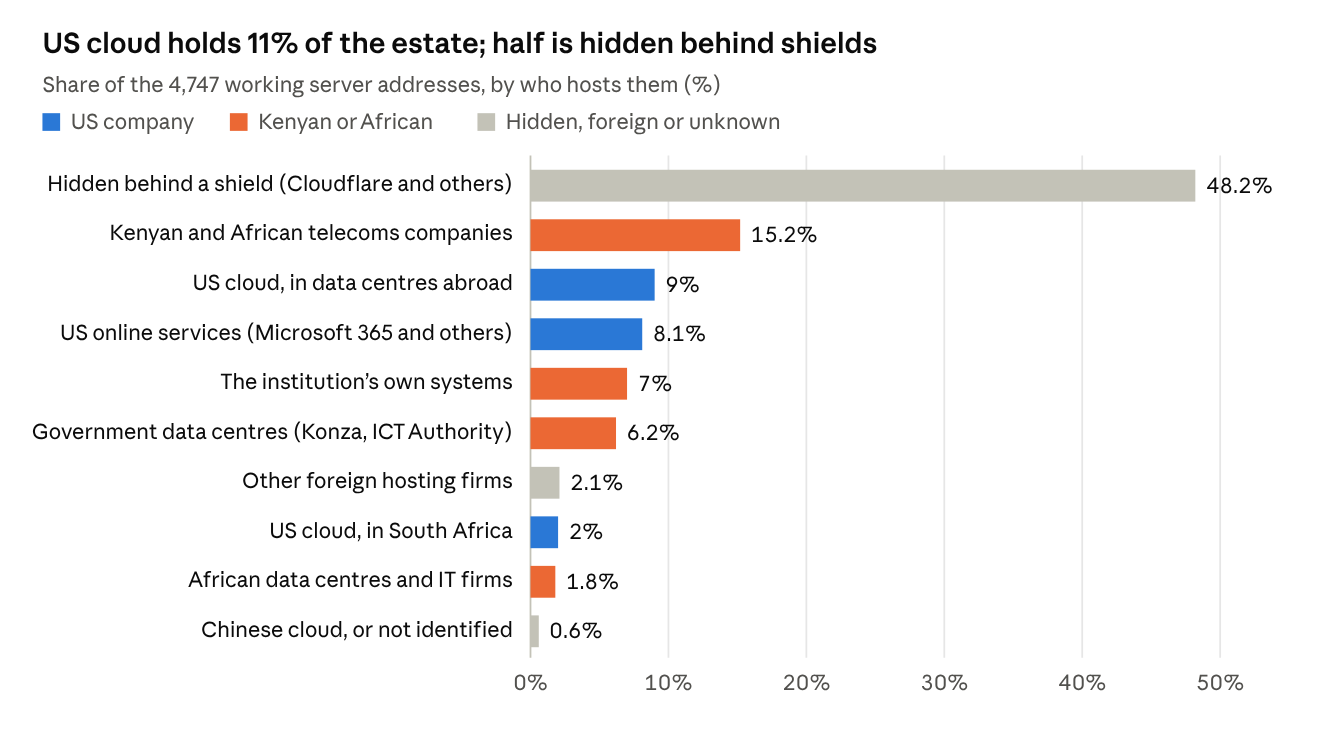
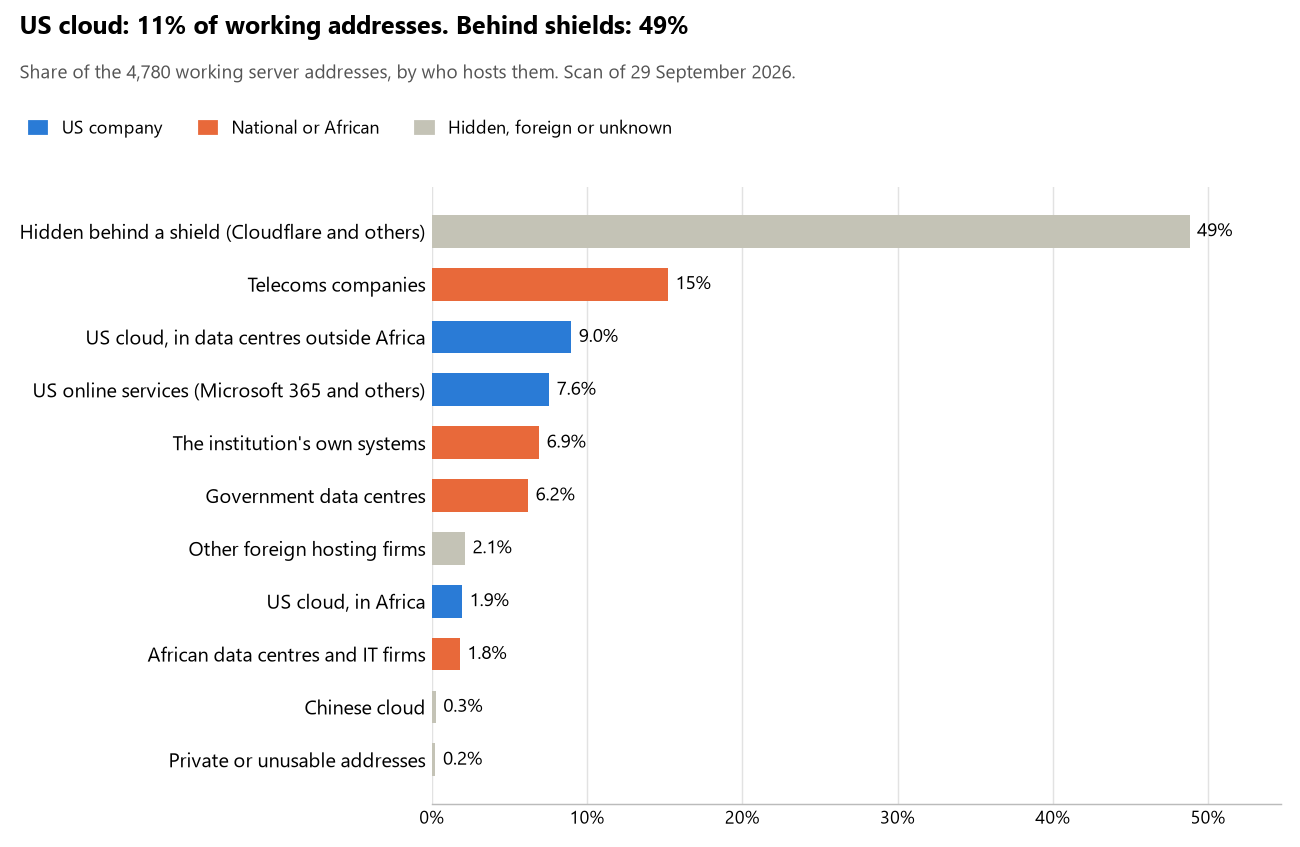
HYPERSCALER 04 KEN: institutions 51 · US 11% · shield 49% · rank 31/54 · dangling 1

diff --git a/R&D/Hyperscaler-dependence/scan/KEN/report.md b/R&D/Hyperscaler-dependence/scan/KEN/report.md
@@ -1,129 +1,135 @@
 ---
 title: Kenya — who hosts the state's front door
-date: 2026-09-28
+date: 2026-09-29
 author: Bill Anderson
 source: R&D/Hyperscaler-dependence/scan/KEN/ (nodes.csv, organisations.csv, run.json)
-doc: https://claude.ai/code/artifact/06b0b8c6-1ebf-4a3c-9620-ace419b400c2
+scan_date: 2026-09-29
 ---
 
 # Kenya: who hosts the state's front door
 
-28 September 2026 · Bill Anderson
+29 September 2026 · Bill Anderson · scan of 29 September 2026
 
-About one tenth (11%) of the public-facing systems of 50 Kenyan state bodies, banks and utilities run on Amazon, Microsoft, Google or Oracle. That is well under South Africa's 28%. Almost half (48%) sit behind Cloudflare and similar shields, so we can't see who hosts them. About one eighth (13%) run on the government's own data centres or the institutions' own systems.
+The scan covered 51 state bodies, banks and state-owned companies in Kenya. 11% of their working server addresses are on US cloud: Amazon, Microsoft, Google or Oracle. 49% are behind shields such as Cloudflare, which hide the host. 13% are on government data centres or the institutions' own systems.
 
-The scan covered the main ministries and agencies, the ten largest banks, the payment switch, the stock exchange and the big state-owned companies, Safaricom included. It found 3,645 web and mail names, pointing to 4,747 working server addresses. 29 of the 50 use US cloud for at least part of their public estate. 26 use Microsoft for email, and 5 use Google.
+The scan found 3,654 web and mail names and 4,780 working addresses. 30 of the 51 institutions use US cloud for at least part of their estate. 27 use Microsoft for email and 5 use Google.
+
+Of the 54 countries scanned so far, Kenya has the 31st highest US cloud share (median 13%) and the 3rd highest share behind shields (median 12%).
 
 ## Where it lives
 
-![US cloud holds 11% of the estate; half is hidden behind shields](report-chart.png)
+![US cloud: 11% of working addresses; behind shields: 49%](report-chart.png)
 
-Where Kenya does use US cloud, it mostly uses Europe. About half of the 521 US-cloud addresses are in Microsoft's Dublin and Amsterdam data centres or Amazon's in Ireland. A quarter are Amazon's and Microsoft's worldwide delivery networks, and under a fifth are in South Africa. The US itself hosts almost none.
+522 addresses are on US cloud. Where they are: 51% in Europe, 25% on worldwide delivery networks (no fixed location), 18% in Africa, 2% in a region the providers do not publish, 2% in North America and 2% in Asia or the Middle East.
 
-The shield half is the part we cannot see into. Cloudflare fronts most of it and Imperva most of the rest. The servers behind them could be anywhere, including on US cloud, so the 11% is a floor, not a ceiling.
+2,333 addresses are behind shields: Cloudflare (81%), Imperva (15%) and Radware (2%). The host behind a shield cannot be seen, so the US cloud share is a minimum.
 
 ## Banks against government
 
-Kenya's banks lean on US cloud more than twice as much as its government does. The government leans instead on telecoms companies and its own data centres.
-
-| Share of working addresses | Government (40 bodies) | Banks (10) |
+| Share of working addresses | Government (41) | Banks (10) |
 | --- | --- | --- |
 | On US cloud | 8% | 20% |
-| …of which hosted in South Africa | 2% | 1% |
-| US online services (Microsoft 365 and others) | 7% | 12% |
-| Hidden behind a shield | 45% | 55% |
-| Government data centres | 9% | — |
+| …of which in Africa | 2% | 1% |
+| US online services (Microsoft 365 and others) | 6% | 12% |
+| Behind a shield | 46% | 55% |
+| Government data centres | 9% | 0% |
 | Run by the institution itself | 8% | 5% |
-| Run by telecoms companies | 20% | 4% |
+| Telecoms companies | 20% | 4% |
+| African data centres and IT firms | 2% | 2% |
+| Other foreign hosting firms | 2% | 2% |
 
-"Government" here includes the Central Bank, the payment switch, the stock exchange and the state-owned companies (Kenya Power, KenGen, the ports, Telkom Kenya and Safaricom). Eight of the ten banks use US cloud somewhere; so do 21 of the 40 government bodies.
+8 of 10 banks and 22 of 41 government bodies use US cloud somewhere. "Government" includes the central bank, the payment switch, the stock exchange and the state-owned companies.
 
 ## Email
 
-Microsoft carries the email of 26 of the 50 institutions. But the heart of government runs its mail through its own national data centre at Konza.
+27 of the 51 institutions use Microsoft 365 for email and 5 use Google.
 
-- **Microsoft 365:** 26, including Parliament, the Judiciary, the Central Bank, the electoral commission and eight of the ten banks.
-- **The government's own data centre (Konza):** 9. They are the Office of the President, the Treasury, Foreign Affairs, Interior, Immigration, Health, Lands, Social Protection and the ICT Authority.
-- **Google:** 5. They are eCitizen, the ICT ministry, the statistics bureau, the tenders portal and PesaLink.
-- **Local providers or their own servers:** 4. Defence uses Telkom Kenya, the anti-corruption commission uses Safaricom and the revenue authority runs its own. The NSSF uses Host Africa, a South African host.
-- **Amazon:** the National Police Service.
-- **Behind a mail filter, provider unseen:** Safaricom.
-- **No mail on the domain scanned:** 4. They are the Attorney General, the intelligence service, Absa Kenya and Stanbic Kenya, which probably use other domains.
+- **Microsoft 365:** 27. Parliament of Kenya, Judiciary of Kenya, Central Bank of Kenya, KCB Group, Equity Bank, Co-operative Bank of Kenya, NCBA Group, I&M Bank, Diamond Trust Bank, Family Bank, Prime Bank, State Department for Immigration and Citizen Services (Civil Registration Services; National Registration Bureau), Office of the Data Protection Commissioner, Independent Electoral and Boundaries Commission (IEBC), Social Health Authority, Nairobi Securities Exchange, Capital Markets Authority, Retirement Benefits Authority, Public Procurement Regulatory Authority, Kenya Power, KenGen, Kenya Ports Authority, Telkom Kenya, Konza Technopolis, National KE-CIRT/CC, Communications Authority of Kenya and Office of the Auditor-General.
+- **Google:** 5. Kenya National Bureau of Statistics, Integrated Payment Services (PesaLink), Government tenders portal, eCitizen and Ministry of Information, Communications and the Digital Economy.
+- **Government data centre (Konza Technopolis):** 9. Executive Office of the President, Ministry of Foreign and Diaspora Affairs, The National Treasury, Ministry of Interior and National Administration, Department of Immigration Services, Ministry of Health, State Department for Social Protection, Ministry of Lands (Ardhisasa) and ICT Authority.
+- **Own mail servers:** 1. Kenya Revenue Authority.
+- **Telecoms companies:** 2. Ministry of Defence and Kenya Defence Forces (Telkom Kenya) and Ethics and Anti-Corruption Commission (Safaricom).
+- **African hosts (Host Africa):** 1. National Social Security Fund.
+- **US cloud:** 1. National Police Service.
+- **Behind a mail filter, provider not visible:** 1. Safaricom.
+- **No mail on the domain scanned:** 4. Office of the Attorney General, National Intelligence Service, Absa Bank Kenya and Stanbic Bank Kenya.
 
 ## Institution by institution
 
-Prime Bank, the Auditor-General and NCBA lean hardest on US cloud. Konza, Stanbic, DTB, Family Bank and Safaricom hide most of their estate behind a shield. Each figure is a share of that institution's working addresses. Whatever a row does not add up to sits with telecoms companies, African data centres, US online services or foreign hosts.
+Each figure is a share of that institution's working addresses. The rest are with telecoms companies, African data centres, US online services or foreign hosts. Rows follow the order of institution types.
 
-| Institution | Sector | On US cloud | …of which in SA | Behind a shield | Own or government | Email |
+| Institution | Type | On US cloud | …in Africa | Behind a shield | Own or government | Email |
 | --- | --- | --- | --- | --- | --- | --- |
-| Prime Bank | Bank | 53% | 0% | 8% | 7% | Microsoft |
-| Office of the Auditor-General | Government | 52% | 0% | 0% | 0% | Microsoft |
-| NCBA Group | Bank | 48% | 3% | 16% | 14% | Microsoft |
-| Equity Bank | Bank | 44% | 0% | 10% | 19% | Microsoft |
-| Absa Bank Kenya | Bank | 37% | 18% | 33% | 13% | — |
-| Procurement regulator (PPRA) | Government | 32% | 0% | 0% | 0% | Microsoft |
-| Social Health Authority | Government | 31% | 27% | 29% | 0% | Microsoft |
-| National KE-CIRT/CC | Government | 26% | 0% | 0% | 0% | Microsoft |
-| Communications Authority | Government | 25% | 0% | 6% | 0% | Microsoft |
-| Co-operative Bank of Kenya | Bank | 22% | 0% | 4% | 15% | Microsoft |
-| Nairobi Securities Exchange | Government | 22% | 3% | 0% | 0% | Microsoft |
-| Kenya Ports Authority | Government | 19% | 0% | 4% | 26% | Microsoft |
-| Electoral commission (IEBC) | Government | 18% | 0% | 0% | 0% | Microsoft |
-| Capital Markets Authority | Government | 15% | 0% | 0% | 0% | Microsoft |
-| KenGen | Government | 14% | 0% | 24% | 1% | Microsoft |
-| Diamond Trust Bank | Bank | 14% | 0% | 74% | 6% | Microsoft |
-| KCB Group | Bank | 13% | 0% | 64% | 0% | Microsoft |
-| Stanbic Bank Kenya | Bank | 11% | 0% | 86% | 0% | — |
-| Kenya Power | Government | 10% | 0% | 10% | 14% | Microsoft |
-| Retirement Benefits Authority | Government | 9% | 0% | 11% | 0% | Microsoft |
-| Ministry of Health | Government | 9% | 7% | 0% | 43% | Konza (government) |
-| Safaricom | Government | 8% | 0% | 70% | 18% | Filtered (Cisco) |
-| Ministry of Interior | Government | 8% | 0% | 0% | 58% | Konza (government) |
-| National Police Service | Government | 8% | 0% | 0% | 31% | Amazon |
-| ICT Authority | Government | 4% | 1% | 1% | 71% | Konza (government) |
-| Kenya Revenue Authority | Government | 3% | 0% | 3% | 66% | Own servers |
-| Parliament of Kenya | Government | 3% | 0% | 80% | 0% | Microsoft |
-| Telkom Kenya | Government | 3% | 0% | 0% | 74% | Microsoft |
-| eCitizen | Government | 1% | 0% | 52% | 0% | Google |
-| Office of the President | Government | 0% | 0% | 21% | 32% | Konza (government) |
-| Foreign Affairs | Government | 0% | 0% | 0% | 62% | Konza (government) |
-| Defence and KDF | Government | 0% | 0% | 0% | 0% | Telkom Kenya |
-| Judiciary of Kenya | Government | 0% | 0% | 0% | 6% | Microsoft |
-| Office of the Attorney General | Government | 0% | 0% | 0% | 50% | — |
-| The National Treasury | Government | 0% | 0% | 0% | 54% | Konza (government) |
-| National Intelligence Service | Government | 0% | 0% | 0% | 0% | — |
-| Central Bank of Kenya | Government | 0% | 0% | 7% | 36% | Microsoft |
-| I&M Bank | Bank | 0% | 0% | 67% | 0% | Microsoft |
-| Family Bank | Bank | 0% | 0% | 70% | 8% | Microsoft |
-| Department of Immigration Services | Government | 0% | 0% | 36% | 36% | Konza (government) |
-| Data Protection Commissioner | Government | 0% | 0% | 3% | 48% | Microsoft |
-| Statistics (KNBS) | Government | 0% | 0% | 3% | 62% | Google |
-| National Social Security Fund | Government | 0% | 0% | 0% | 0% | Host Africa |
-| Social Protection department | Government | 0% | 0% | 0% | 72% | Konza (government) |
-| Ministry of Lands (Ardhisasa) | Government | 0% | 0% | 0% | 54% | Konza (government) |
-| PesaLink (IPSL) | Government | 0% | 0% | 67% | 0% | Google |
-| Government tenders portal | Government | 0% | 0% | 0% | 0% | Google |
-| Konza Technopolis | Government | 0% | 0% | 97% | 3% | Microsoft |
-| Anti-corruption (EACC) | Government | 0% | 0% | 0% | 0% | Safaricom |
-| Ministry of ICT and Digital Economy | Government | 0% | 0% | 0% | 60% | Google |
+| Executive Office of the President | Presidency | 0% | 0% | 21% | 32% | Government |
+| Parliament of Kenya | Parliament | 3% | 0% | 77% | 0% | Microsoft |
+| Ministry of Foreign and Diaspora Affairs | Foreign Affairs | 0% | 0% | 0% | 62% | Government |
+| Ministry of Defence and Kenya Defence Forces | Defence | 0% | 0% | 0% | 0% | Telecoms |
+| National Police Service | Police | 8% | 0% | 0% | 31% | US cloud |
+| Judiciary of Kenya | Justice | 0% | 0% | 0% | 6% | Microsoft |
+| Office of the Attorney General | Justice | 0% | 0% | 0% | 50% | — |
+| The National Treasury | Treasury / Finance | 0% | 0% | 0% | 53% | Government |
+| Kenya Revenue Authority | Revenue Service | 3% | 0% | 3% | 66% | Own servers |
+| National Intelligence Service | Intelligence | 0% | 0% | 0% | 0% | — |
+| Ministry of Interior and National Administration | Interior / Home Affairs | 8% | 0% | 0% | 58% | Government |
+| Central Bank of Kenya | Central Bank | 0% | 0% | 7% | 36% | Microsoft |
+| KCB Group | Commercial Banks | 13% | 0% | 63% | 0% | Microsoft |
+| Equity Bank | Commercial Banks | 44% | 0% | 10% | 19% | Microsoft |
+| Co-operative Bank of Kenya | Commercial Banks | 22% | 0% | 4% | 15% | Microsoft |
+| NCBA Group | Commercial Banks | 50% | 3% | 17% | 14% | Microsoft |
+| Absa Bank Kenya | Commercial Banks | 37% | 18% | 33% | 13% | — |
+| Stanbic Bank Kenya | Commercial Banks | 11% | 0% | 85% | 0% | — |
+| I&M Bank | Commercial Banks | 0% | 0% | 74% | 0% | Microsoft |
+| Diamond Trust Bank | Commercial Banks | 14% | 0% | 74% | 6% | Microsoft |
+| Family Bank | Commercial Banks | 0% | 0% | 70% | 8% | Microsoft |
+| Prime Bank | Commercial Banks | 53% | 0% | 8% | 7% | Microsoft |
+| State Department for Immigration and Citizen Services (Civil Registration Services; National Registration Bureau) | Civil registry / National ID authority | 0% | 0% | 0% | 16% | Microsoft |
+| Department of Immigration Services | Immigration / Passports | 0% | 0% | 36% | 36% | Government |
+| Office of the Data Protection Commissioner | Data protection authority | 0% | 0% | 3% | 48% | Microsoft |
+| Independent Electoral and Boundaries Commission (IEBC) | Electoral commission | 18% | 0% | 0% | 0% | Microsoft |
+| Kenya National Bureau of Statistics | Statistics office | 0% | 0% | 3% | 63% | Google |
+| Ministry of Health | Health ministry / National health insurance | 9% | 7% | 0% | 43% | Government |
+| Social Health Authority | Health ministry / National health insurance | 32% | 27% | 29% | <1% | Microsoft |
+| National Social Security Fund | Social protection / Social registry | 0% | 0% | 0% | 0% | African host |
+| State Department for Social Protection | Social protection / Social registry | 0% | 0% | 0% | 72% | Government |
+| Ministry of Lands (Ardhisasa) | Land registry | 0% | 0% | 0% | 54% | Government |
+| Integrated Payment Services (PesaLink) | National payment switch | 1% | 0% | 89% | 0% | Google |
+| Nairobi Securities Exchange | Stock exchange | 25% | 4% | 0% | 0% | Microsoft |
+| Capital Markets Authority | Securities regulator | 15% | 0% | 0% | 0% | Microsoft |
+| Retirement Benefits Authority | Sovereign wealth fund / National pension fund | 10% | 0% | 13% | 0% | Microsoft |
+| Public Procurement Regulatory Authority | Public procurement authority | 28% | 0% | 0% | 0% | Microsoft |
+| Government tenders portal | Public procurement authority | 0% | 0% | 0% | 0% | Google |
+| Kenya Power | Energy utility | 10% | 0% | 10% | 14% | Microsoft |
+| KenGen | Energy utility | 15% | 0% | 26% | 1% | Microsoft |
+| Kenya Ports Authority | Ports authority | 22% | 0% | 4% | 31% | Microsoft |
+| Safaricom | State-owned telco / National backbone operator | 8% | <1% | 69% | 18% | Filtered |
+| Telkom Kenya | State-owned telco / National backbone operator | 3% | 0% | 0% | 74% | Microsoft |
+| eCitizen | E-government agency | 1% | 0% | 52% | 0% | Google |
+| ICT Authority | E-government agency | 4% | 1% | 1% | 71% | Government |
+| Konza Technopolis | National data centre / Government cloud operator | 0% | 0% | 97% | 3% | Microsoft |
+| National KE-CIRT/CC | Cybersecurity agency / National CERT | 26% | 0% | 0% | 0% | Microsoft |
+| Communications Authority of Kenya | Communications regulator | 27% | 0% | 6% | 0% | Microsoft |
+| Office of the Auditor-General | Audit office | 52% | 0% | 0% | 0% | Microsoft |
+| Ethics and Anti-Corruption Commission | Anti-corruption commission | 0% | 0% | 0% | 0% | Telecoms |
+| Ministry of Information, Communications and the Digital Economy | E-government agency | 0% | 0% | 0% | 59% | Google |
+
+2 of the 36 types are covered by another institution in the table: Armed Forces (in Defence) and Customs (in Revenue Service).
 
 ## What stood out
 
-- **Central government keeps its mail at home.** The Presidency, the Treasury, Foreign Affairs, Interior and five more bodies route email through Konza, the national data centre. The core of government mail is not with Microsoft or Google.
-- **Some sensitive bodies use budget foreign web hosts.** Part of the Office of the President's web estate sits with Network Solutions, a US host, and Contabo, a German budget server firm. Defence, the Judiciary and the Ministry of Health also have servers at Contabo. Part of the intelligence service's website is with WHG, a UK hosting firm.
-- **Two banks run on their South African parents.** Absa Kenya's own systems are on Absa's South African network. Stanbic Kenya hides 86% of its estate behind a shield.
-- **The Social Health Authority keeps its cloud in Africa.** A quarter of its estate is in Amazon's and Microsoft's South African data centres, the highest share of any Kenyan body.
-- **A little Chinese cloud.** Three Safaricom addresses run on Huawei Cloud, the only Chinese cloud the scan found.
-- **One Safaricom web address points at a deleted cloud name that anyone could claim.** Whoever claims it could publish under a Safaricom address. We have flagged it and are not naming it here.
+- **Most on US cloud.** Prime Bank (53%) and Office of the Auditor-General (52%) have more than half their working addresses on US cloud.
+- **US cloud in Africa.** Social Health Authority has 27% of its working addresses in US cloud data centres in Africa, the highest share in Kenya.
+- **Core state bodies on foreign hosting firms.** Executive Office of the President (Network Solutions and Contabo), Ministry of Defence and Kenya Defence Forces (Contabo), Judiciary of Kenya (TierPoint and Contabo) and Kenya Revenue Authority (DigitalOcean).
+- **Chinese cloud.** 12 addresses, all at Safaricom, are on Chinese cloud.
+- **Names anyone could claim.** One web address at Safaricom points at a deleted cloud name that anyone could register and then publish under. We have flagged it and do not name it here.
 
 ## What this can and cannot tell you
 
-The scan sees only the front door: websites, email, login portals, remote-access gateways and online banking. It cannot see where a bank's core ledger, the ID register or the payroll actually run.
+The scan sees only the front door: websites, email, login portals, remote-access gateways and online banking. It cannot see where a bank's core ledger, the ID register or the payroll run.
 
-- **Every US figure is a floor.** Anything behind a shield or a mail filter could also be on US cloud, and we cannot tell. In Kenya that is half the estate, so the floor is low.
-- **It counts addresses, not importance.** An institution with many test and marketing sites weighs more than one with a few, whatever those sites do.
-- **The list of institutions was drawn up for this scan.** Each domain was checked to exist, but not formally confirmed as the institution's main one.
-- **It is a snapshot.** Every figure is as of 28 September 2026. Running the scan again in a year shows which way each institution is moving.
-- **Nothing was touched.** The scan used public address lookups, public certificate records and the cloud companies' own published address lists. It never connected to any institution's systems.
+- **Every US figure is a minimum.** Anything behind a shield or a mail filter could also be on US cloud. In Kenya that is 49% of working addresses.
+- **It counts addresses, not importance.** An institution with many test and marketing sites weighs more than one with few.
+- **The list of institutions was drawn up for this scan.** Each domain was checked to exist, not confirmed as the institution's main one.
+- **It is a snapshot.** Every figure is as of 29 September 2026.
+- **Nothing was touched.** The scan used public address lookups, public certificate records and the cloud companies' published address lists. It never connected to any institution's systems.
 
 The data and method are in `R&D/Hyperscaler-dependence/scan/KEN/` and `R&D/Hyperscaler-dependence/HYPERSCALER-SCAN.md` in the Corpus repository.

diff --git a/logs/log.md b/logs/log.md
@@ -12,6 +12,7 @@ title: Corpus process log
 *(**`status-init` joined the log on 2026-08-16** and writes one line per country, not per session. Before that it rewrote status reports and committed them while leaving no trace here, so the log implied `outputs/` only ever moves under BUILD — untrue since the campaign began, and the lines above 12:21 on 2026-08-16 are the gap it left. Nothing has been backfilled: the runs are in git, and a hand-written line dated to a run nobody logged is a worse record than an admitted hole.)*
 
 <!-- newest first: a new entry goes directly below this line -->
+2026-09-29 15:53 · **HYPERSCALER** · unclocked · 04 KEN: institutions 51 · US 11% · shield 49% · rank 31/54 · dangling 1
 2026-09-29 15:53 · **HYPERSCALER** · unclocked · 04 ZAF: institutions 51 · US 28% · shield 27% · rank 6/54 · dangling 3
 2026-09-29 15:52 · **HYPERSCALER** · unclocked · 02 NGA crt.sh re-run: institutions 52 · names 6667 · routable 5765 · us-hyperscaler 24% (african region 1%) · m365 24 · google 2 · cdn-fronted 44% · national/self 14% · unattributed 15
 2026-09-29 15:52 · **HYPERSCALER** · unclocked · 02+03 KEN rescan: institutions 51 · names 3654 · routable 4780 · us-hyperscaler 11% (african region 2%) · m365 27 · google 5 · cdn-fronted 49% · national/self 13% · unattributed 0
